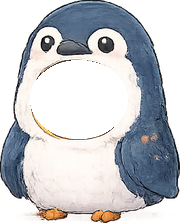
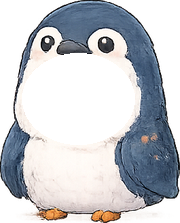
Fix item 43's new garments clipping eyes, enlarge kigurumi face holes further
The 5 new overlay garments from item 43 (sailor collar, hoodie, starry cape,
sunflower shirt, plaid cape) had their offsetY computed from a formula that
placed the hole opening too high, covering the eyes almost entirely (worst
on the plaid cape, per real-device screenshot). Re-tuned each by rendering
the actual shipped asset at several candidate offsetY values and picking by
eye, same method used for earlier overlay-garment fixes.

Also grew each of the 5 fullBody kigurumi face holes another ~16% from their
already-enlarged item 43 size, per a follow-up "make the hole one more notch
bigger" request, re-verified none leak past their costume's own silhouette.

Claude-Session: https://claude.ai/code/session_01X1ebTGUfpLX7ZUgdgeDcne

diff --git a/src/data/cosmetics.ts b/src/data/cosmetics.ts
@@ -356,7 +356,7 @@ export const COSMETIC_ITEMS: CosmeticItemDef[] = [
     aspect: 1.2305,
     offsetX: 0,
     offsetY: -0.0781,
-    facePatch: { width: 0.5157, height: 0.407, offsetX: -0.0775, offsetY: -0.113 },
+    facePatch: { width: 0.5954, height: 0.4662, offsetX: -0.0814, offsetY: -0.1168 },
     unlockedByDefault: true,
   },
   {
@@ -369,7 +369,7 @@ export const COSMETIC_ITEMS: CosmeticItemDef[] = [
     aspect: 1.2415,
     offsetX: 0,
     offsetY: -0.0781,
-    facePatch: { width: 0.546, height: 0.4328, offsetX: -0.0426, offsetY: -0.1246 },
+    facePatch: { width: 0.6291, height: 0.5112, offsetX: -0.0465, offsetY: -0.1285 },
     unlockedByDefault: false,
   },
   {
@@ -382,7 +382,7 @@ export const COSMETIC_ITEMS: CosmeticItemDef[] = [
     aspect: 1.271,
     offsetX: 0,
     offsetY: -0.0781,
-    facePatch: { width: 0.5157, height: 0.4199, offsetX: -0.0426, offsetY: -0.1207 },
+    facePatch: { width: 0.5954, height: 0.4775, offsetX: -0.0465, offsetY: -0.1246 },
     unlockedByDefault: false,
   },
   {
@@ -395,7 +395,7 @@ export const COSMETIC_ITEMS: CosmeticItemDef[] = [
     aspect: 1.0927,
     offsetX: 0,
     offsetY: -0.0781,
-    facePatch: { width: 0.4474, height: 0.3682, offsetX: -0.0949, offsetY: -0.1013 },
+    facePatch: { width: 0.5224, height: 0.4325, offsetX: -0.0988, offsetY: -0.1052 },
     unlockedByDefault: false,
   },
   {
@@ -408,7 +408,7 @@ export const COSMETIC_ITEMS: CosmeticItemDef[] = [
     aspect: 1.186,
     offsetX: 0,
     offsetY: -0.0781,
-    facePatch: { width: 0.4702, height: 0.3747, offsetX: -0.0697, offsetY: -0.0839 },
+    facePatch: { width: 0.5392, height: 0.4381, offsetX: -0.0736, offsetY: -0.0878 },
     unlockedByDefault: false,
   },
   {
@@ -574,6 +574,31 @@ export const COSMETIC_ITEMS: CosmeticItemDef[] = [
   // previously confirmed working), their offsets are more likely than the
   // rest of this catalog to need a follow-up nudge from real-device
   // feedback.
+  //
+  // Correction #14 (real-device report: "上すぎる！！あと着ぐるみはいい感じ、
+  // あとほんとに一回りだけ穴をデカくして"): exactly the predicted Correction #13
+  // follow-up nudge, landing on the 5 new face-holed overlay garments —
+  // the formula-derived offsetY values above (chosen by measuring where
+  // each hand-cut hole sits, same method that worked for the fullBody
+  // items) put the hole's opening too high, clipping straight across the
+  // eyes (worst on seasonal_plaid_cape, the one screenshotted). Rather
+  // than re-derive the formula, each was re-tuned the Correction #10 way —
+  // rendering the actual shipped asset at 120px across a spread of
+  // candidate offsetY and picking by eye, re-checked across all 4 birds:
+  // outfit_navy_sailor 0.10, cute_pink_hoodie 0.16, cute_sunflower_shirt
+  // 0.10, theme_starry_cape 0.16, seasonal_plaid_cape 0.18 (the largest
+  // push, matching how badly it clipped in the report). Separately, the
+  // report's "着ぐるみはいい感じ" confirmed Correction #12's fullBody hole
+  // enlargement landed correctly, but asked for one more modest size bump
+  // ("一回りだけ" — just one notch) — each of the 5 costume_*.png's already-
+  // enlarged holes was grown a further ~16% from its own center (rx/ry ×
+  // 1.16; FACE_PATCH_CROP itself stays fixed, only each item's own
+  // facePatch width/height/offsetX/offsetY below were recomputed to match
+  // the new hole size/position), re-verified via the same border-touch
+  // leak check as Correction #12 that none escape past their costume's own
+  // head/hood silhouette — costume_parrot's hole was the tightest fit and
+  // needed a smaller multiplier than the rest at first try, so all 5 were
+  // leveled to the same safe 1.16x for consistency.
   {
     id: 'outfit_navy_sailor',
     name: 'セーラー襟(ネイビー)',
@@ -583,7 +608,7 @@ export const COSMETIC_ITEMS: CosmeticItemDef[] = [
     scale: 0.6309,
     aspect: 0.5611,
     offsetX: 0,
-    offsetY: -0.0387,
+    offsetY: 0.1,
     unlockedByDefault: false,
   },
   {
@@ -595,7 +620,7 @@ export const COSMETIC_ITEMS: CosmeticItemDef[] = [
     scale: 0.6309,
     aspect: 0.7,
     offsetX: 0,
-    offsetY: -0.0777,
+    offsetY: 0.16,
     unlockedByDefault: false,
   },
   {
@@ -622,7 +647,7 @@ export const COSMETIC_ITEMS: CosmeticItemDef[] = [
     scale: 0.6309,
     aspect: 0.6944,
     offsetX: 0,
-    offsetY: -0.0424,
+    offsetY: 0.16,
     unlockedByDefault: false,
   },
   {
@@ -634,7 +659,7 @@ export const COSMETIC_ITEMS: CosmeticItemDef[] = [
     scale: 0.6309,
     aspect: 0.65,
     offsetX: 0,
-    offsetY: 0.0055,
+    offsetY: 0.1,
     unlockedByDefault: false,
   },
   {
@@ -646,7 +671,7 @@ export const COSMETIC_ITEMS: CosmeticItemDef[] = [
     scale: 0.6309,
     aspect: 0.6167,
     offsetX: 0,
-    offsetY: -0.0405,
+    offsetY: 0.18,
     unlockedByDefault: false,
   },
 ];

diff --git a/README.md b/README.md
@@ -111,6 +111,8 @@
 
 43. **着ぐるみの顔穴を拡大 + 新しい服6点の追加**: 「着ぐるみ、もう少し横長、縦ももう少し顔出す部分大きくできる?」という要望と、新しく描いた服6点の参考シートを受けての対応。①着ぐるみ(スペシャル)5点それぞれの実際の透過穴を、中心はそのままに横方向135%・縦方向115%に拡大(頭の輪郭からはみ出さないことを確認済み)。この「実際にPNGへ焼き込まれた穴」と「CharacterAvatar.tsx側で描く顔パッチ」は連動して大きくしないと意味がない(片方だけ大きくしても、はみ出た分が着ぐるみ本体の不透明なファブリックに隠れるか、逆に穴だけ大きくなって顔が小さく浮くかのどちらかになる)ため、両方を同時に変更した。`facePatch`のデータ形も、正方形前提の`scale`単一値から、横長の穴形状に合わせて`width`/`height`の2軸指定に変更し、`CharacterAvatar.tsx`側は`borderRadius: Math.min(width,height)/2`という「スタジアム(角丸長方形)」型のクリップに変更——完全な楕円はReact Nativeのborderradiusでは表現できないが、この程度の縦横比ならスタジアム型で見た目上ほぼ違和感なく近似できる。`FACE_PATCH_CROP`(顔を切り出す共通範囲)も正方形から横長の矩形に変更したが、item 42で頭頂部の色が映り込まないよう調整したy0(0.20)は変えず、y1を下げる・x0/x1を広げる方向でのみ拡張し、頭頂部の色の再発を防いだ。②新しい参考シート(セーラー襟・ピンクパーカー・葉っぱのケープ・星空のケープ・ひまわりシャツ・チェックのケープの6点)は、背景が「本物のアルファ透過」ではなく市松模様(チェッカーボード)をRGBピクセルとして直接焼き込んだもの(前回までのぼかしグラデーション背景ともまた違うパターン)だったため、輪郭のエッジ検出方式だとチェッカーの格子自体を壁と誤検出し、背景が無数の1マス単位の孤立領域に分断されて外周と繋がらず、うまく背景と判定できなかった——色ベースの判定(グレースケールに近く、かつチェッカーの2色のいずれかに近い)に切り替え、タイル同士の継ぎ目のアンチエイリアス部分まで拾えるよう許容範囲を広めに取ることで解決した(狭すぎると継ぎ目部分が「前景」判定されて格子状のノイズとして全タイルを繋げてしまっていた)。6点のうち「葉っぱのケープ」は肩掛け型で胸元が最初から完全に開いた作りだったため顔穴の切り出しは不要(既存のevent_santa_capeと同じ考え方)、残り5点は既存の襟の切り出しと違って穴の位置を示す塗り分けが元絵に無かったため、各アイテムの襟の形を見ながら手動で穴の位置・大きさを決め、item 41の教訓(穴の中心を目線にぴったり合わせると目が隠れる)を最初から織り込んで下寄りにオフセットした。6点とも4羽×4サイズでの再現レンダリングは確認済みだが、既存カタログの他アイテムと違って一度も実機での動作確認を経ていない新規追加のため、他のアイテムより位置調整の再修正が必要になる可能性が高い。
 
+44. **item 43の新規服5点、目にかぶるバグ修正 + 着ぐるみ顔穴のさらなる拡大**: 「上すぎる!!あと着ぐるみはいい感じ、あとほんとに一回りだけ穴をデカくして」という実機報告(チェックのケープが襟で目を完全に覆っているスクリーンショット付き)を受けての対応。まさにitem 43の文末で懸念していた「実機での再修正が必要になる可能性」がそのまま的中した形——item 43で新規追加した5点(セーラー襟(ネイビー)・ピンクパーカー・星空のケープ・ひまわりシャツ・チェックのケープ)のoffsetYは、各アイテムの襟穴の実測位置から数式的に算出した値だったが、これがことごとく浅すぎ、穴の開口部が目のライン全体を覆ってしまっていた(最悪だったのがスクリーンショットに写っていたチェックのケープ)。今回は数式に頼るのをやめ、item 41/42で確立した「実際に出荷済みアセットを複数のoffsetY候補で実寸(120px)レンダリングし、目で比較して選ぶ」方式に統一し、4羽全体で確認: セーラー襟(ネイビー) 0.10、ピンクパーカー 0.16、ひまわりシャツ 0.10、星空のケープ 0.16、チェックのケープ 0.18(スクリーンショットで最も酷かった分、動かす量も最大)。一方「着ぐるみはいい感じ」という一文はitem 42/43の着ぐるみ側の直し自体は正しかったことの確認でもあり、そのうえで「一回りだけ穴を大きく」という追加の小幅な要望だったため、着ぐるみ(スペシャル)5点それぞれのすでに拡大済みの透過穴を、中心はそのまま各辺方向にさらに16%(rx/ry×1.16)拡大——`FACE_PATCH_CROP`自体(共通クロップ範囲)は変更せず、各アイテム側の`facePatch`(width/height/offsetX/offsetY)だけを新しい穴のサイズ・位置に合わせて再計算した。最初オウムだけ他の4点よりも拡大率を上げると頭の輪郭からわずかにはみ出す(item 42と同じ境界チェックで検出)ことが分かったため、5点とも同じ1.16倍に揃えて安全マージンを確保した。
+
 Expo Go を使えば、Xcode も Apple Developer 登録も不要でiPhone実機に反映して試せます。
 
 ### 事前準備(PC側、1回だけ)
